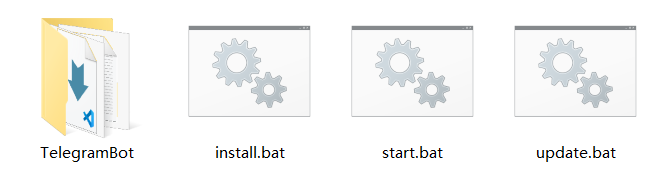
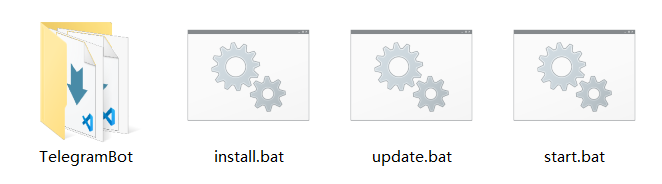
docs: 优化操作步骤并添加示意图
- 重写 README.md 中的脚本操作指南，提升可读性
- 新增 assets/example.png 示意图

diff --git a/README.md b/README.md
@@ -15,15 +15,16 @@
 ## 📑 目录
 
 - [✨ 功能特点](#-功能特点)
+- [⚡ 自动化脚本](#-自动化脚本)
 - [💬 关于 AI 对话](#-关于-ai-对话)
 - [🛠 技术栈](#-技术栈)
 - [🖥 环境准备（`Windows` 用户必读）](#-环境准备windows-用户必读)
 - [🚀 快速开始](#-快速开始)
 - [🔄 更新版本](#-更新版本)
 - [💡 脚本提示信息翻译](#-脚本提示信息翻译)
-    - [install.bat](#installbat)
-    - [update.bat](#updatebat)
-    - [start.bat](#startbat)
+  - [install.bat](#installbat)
+  - [update.bat](#updatebat)
+  - [start.bat](#startbat)
 - [🚨 温馨提示](#-温馨提示)
 - [📄 许可证 (`LICENSE`)](#-许可证-license)
 
@@ -37,20 +38,32 @@
 - **浏览器自动化**: 使用 `Playwright` 实现异步处理。
 - **`TOML` 配置**: 使用 `config.toml` 进行集中式配置管理，类型安全且易读。
 - **配置自动检测**: 每次启动机器人会自动检测是否更新了新配置项并提醒用户在 `config.toml` 中填写。
-- **一键安装与更新**: 提供 `install.bat` 和 `update.bat` 自动化脚本，请在项目的 [Releases 发布页面](../../releases) 下载最新版本。
-  > **重要提示**：
-  > - **首次安装**：请将 `install.bat` 放在一个 **新建的空文件夹** 中双击运行，请确保路径下 **没有** 名为 `TelegramBot` 文件夹，脚本会自动创建 `TelegramBot` 项目文件夹。
-  > - **日常更新**：请将 `update.bat` 放在与 `TelegramBot` 文件夹 **同级的目录** 下双击运行。
-  > - **路径要求**：整个路径中 **请勿包含中文或特殊字符**，以免引发环境报错。
-  > - **环境要求**：请参照 **[ 环境准备（Windows 用户必读）](#-环境准备windows-用户必读)** 安装环境，若旧版本 CMD 出现问题，请尝试在 Windows Terminal 中执行脚本。
-  > - **序号提示**：脚本所有提示信息均已添加序号，方便定位和排查问题。详见下方 **[ 💡 脚本提示信息翻译 ](#-脚本提示信息翻译)** 区域。
-- **一键启动机器人**: 配置完成后，请双击运行 `start.bat` 启动机器人。
-  > **启动脚本说明**：
-  > - **自动环境激活**：脚本会自动检测并激活项目目录下的 `.venv` 虚拟环境，无需手动输入命令。
-  > - **智能路径检查**：启动前会自动校验环境完整性。如果未找到虚拟环境或依赖缺失，窗口会显示红色警告并暂停，防止直接报错闪退。
-  > - **自动使用 `Windows Terminal`**：脚本会自动调用 `Windows Terminal` 打开新标签页启动机器人。
-  > - **停止机器人**：直接在弹出的终端窗口中按 `Ctrl + C` 即可安全停止服务。
-  > - **路径要求**：请将 `start.bat` 放在与 `TelegramBot` 文件夹 **同级的目录** 下双击运行。
+- **版本自动检测**: 每次启动机器人会自动检测是否有新版本。
+
+---
+
+## ⚡ 自动化脚本
+
+提供 `install.bat`、`update.bat` 和 `start.bat` 三个一键式脚本，请在项目的 [Releases 发布页面](../../releases) 下载最新版本。
+
+- **脚本功能说明**
+  - **`install.bat`（一键安装）**：自动克隆代码仓库、创建虚拟环境并安装项目所需的所有依赖。
+  - **`update.bat`（一键更新）**：自动拉取仓库代码并同步依赖。
+  - **`start.bat`（一键启动）**：自动激活虚拟环境，并通过 `Windows Terminal` 安全启动机器人。
+
+  > **注意**：一键更新脚本 **不会** 自动检测是否已是最新版本，请仅在机器人给出有新版本提示时运行。
+
+- **通用注意事项**
+  - **路径要求**：整个路径中 **请勿包含中文或特殊字符**，以免引发环境报错。
+  - **环境要求**：请参照 **[环境准备（Windows 用户必读）](#-环境准备windows-用户必读)** 安装基础环境。若旧版本 `CMD` 出现问题，请尝试在 `Windows Terminal` 中执行脚本。
+  - **停止机器人**：在弹出的终端窗口中按 `Ctrl + C` 即可安全停止服务，也可直接关闭控制台。
+
+- **目录规范**
+  - **首次安装**：请将 `install.bat` 放在一个 **新建的空文件夹** 中双击运行，请确保路径下 **没有** 名为 `TelegramBot` 文件夹，脚本会自动创建 `TelegramBot` 项目文件夹。
+  - **日常更新/启动**：请将 `update.bat` 或 `start.bat` 放在与 `TelegramBot` 文件夹 **同级的目录** 下双击运行。
+
+- **脚本提示信息翻译**
+  - 脚本所有提示信息均已添加序号，方便定位和排查问题。详见下方 **[ 💡 脚本提示信息翻译 ](#-脚本提示信息翻译)** 区域。
 
 ![ 参考图 ](assets/example.png)
 
@@ -61,16 +74,21 @@
 ---
 
 ## 💬 关于 AI 对话
+
 目前仅支持 **私聊** 使用
 
 - **独立会话**：不同用户 **或** 不同群组中的同一用户，会话相互隔离
-  > 群组中需触发关键词或 @机器人（**暂不可用**）
+
+  > **注意**：群组中需触发关键词或 **@** 机器人 **（暂不可用）**
+
 - **消息排队**：原子级别任务锁避免多任务并发出错
 - **状态更新**：自动更新状态信息（排队中、思考中、思考完成内容），**计划** 加入取消排队按钮
 - **自动引用**：状态信息引用原消息，回复内容引用思考过程
 - **思考过程**：仅私聊输出，群组中请使用 `/history` 命令
 - **取消会话**：若思考过程中用户删除原消息，停止处理该任务，消息不计入历史，**计划** 加入取消任务按钮
-  > **注意：** 该功能经测试，目前只在 Nekogram 生效，原版 Telegram 不生效，其他版本未测试
+
+  > **注意**：该功能经测试，**目前** 只在 Nekogram 生效，原版 Telegram **不生效**，其他版本未测试
+
 - **删除判断**：若用户删除机器人发出的状态信息，机器人会在必要时重新发送
 - **超时处理**：配置超时时间和判断间隔，自动清除用户记录
 - **其他功能**：
@@ -104,19 +122,23 @@
 本项目在控制台输出中大量使用了 Emoji 表情。传统的 `CMD` 或旧版 `PowerShell` 可能会导致 Emoji 显示为乱码或空白方块。
 为了获得最佳的运行体验，**强烈建议安装并使用微软官方的 [`Windows Terminal`] + [`Git Bash`]**。
 
-1. **安装 `Windows Terminal`**：请在 Microsoft Store 中搜索 `Windows Terminal` 并安装，或使用 `PowerShell` 安装：
+- **安装 `Windows Terminal`**
+
+  请在 `Microsoft Store` 中搜索 `Windows Terminal` 并安装，或使用 `PowerShell` 安装：
    ```powershell
    winget install --id Microsoft.WindowsTerminal -e
    ```
 
-2. **安装 `Git for Windows`**：前往 [`Git` 官网](https://git-scm.com) 下载并安装，安装时保持默认选项即可。
-   > **重要提示**：如果安装后仍提示没有 `Git` 环境，请尝试重启，如果仍未解决，自行询问 **AI 工具**如何将 `git` 加入 **环境变量**
+- **安装 `Git for Windows`**
 
-3. **设置默认终端**：
-   1. 打开 Windows Terminal（可在开始菜单搜索 **终端**，或按 `Win + R` 输入 `wt` 并回车）。
-   2. 点击标签栏右侧的 **下拉箭头**，选择 **设置**。
-   3. 在左侧选择 **启动**，将“默认配置文件”设置为 **Windows PowerShell**。
-   4. 点击右下角的 **保存**，后续所有命令均在此环境中执行。
+  前往 [`Git` 官网](https://git-scm.com) 下载并安装，安装时保持默认选项即可。
+   > **重要提示**：如果安装后仍提示没有 `Git` 环境，请尝试重启，如果仍未解决，自行询问 **AI 工具** 如何将 `git` 加入 **环境变量**
+
+- **设置默认终端**：
+  - 打开 `Windows Terminal`（可在开始菜单搜索 **终端**，或按 `Win + R` 输入 `wt` 并回车）。
+  - 点击标签栏右侧的 **下拉箭头**，选择 **设置**。
+  - 在左侧选择 **启动**，将“默认配置文件”设置为 `Windows PowerShell`。
+  - 点击右下角的 **保存**，后续所有命令均在此环境中执行。
 
 [⤴ 返回目录](#-目录)
 
@@ -124,58 +146,62 @@
 
 ## 🚀 快速开始
 
-> **极速体验（推荐）**
-> 我们为你准备了自动化脚本！只需双击运行 `install.bat`，即可自动完成以下所有步骤（克隆代码、创建环境、安装依赖、下载浏览器等）。
->
-> **重要提示**：脚本运行完成后，**仍需手动编辑 `config.toml` 填入你的 Token 和 API 配置**，否则机器人无法正常运行！
+- **极速体验（推荐）**
+  - 阅读 **[⚡ 自动化脚本](#-自动化脚本)** 章节说明
+  - 双击运行 `install.bat`，自动完成安装。
+  - 双击运行 `start.bat`，生成 `config.toml` 文件。
+  - 手动编辑 `config.toml` 填入你的 `Token` 和 `API` 配置。
+  - **（可选）** 根据注释按需编辑 `config.toml` 其他配置。
+  - 再次双击运行 `start.bat`，启动机器人，即可开始体验。
 
-<details>
-<summary> 备选方案：手动安装指南（点击展开）</summary>
+- **备选方案**
+  <details>
+  <summary>手动安装指南（点击展开）</summary>
 
-如果你遇到了脚本报错，或者想深入了解项目的配置过程，请参考以下手动步骤：
+  如果你遇到了脚本报错，或者想深入了解项目的配置过程，请参考以下手动步骤：
 
-**1. 克隆项目**
-```powershell
-git clone https://github.com/lym2006/TelegramBot.git
-cd TelegramBot
-```
+  **1. 克隆项目**
+  ```powershell
+  git clone https://github.com/lym2006/TelegramBot.git
+  cd TelegramBot
+  ```
 
-**2. 创建虚拟环境**
-```powershell
-python -m venv .venv
-.venv\Scripts\activate
-```
+  **2. 创建虚拟环境**
+  ```powershell
+  python -m venv .venv
+  .\.venv\Scripts\Activate.ps1
+  ```
 
-**3. 安装依赖**
-本项目使用 `pyproject.toml` 管理依赖，推荐使用以下命令安装：
-```powershell
-python -m pip install --upgrade pip
-python -m pip install -e .
-# 如果你在中国大陆，网络较慢，可以使用国内镜像源：
-# pip install -e . -i https://pypi.tuna.tsinghua.edu.cn/simple
-```
+  **3. 安装依赖**
+  本项目使用 `pyproject.toml` 管理依赖，推荐使用以下命令安装：
+  ```powershell
+  python -m pip install --upgrade pip
+  python -m pip install -e .
+  # 如果你在中国大陆，网络较慢，可以使用国内镜像源：
+  # pip install -e . -i https://pypi.tuna.tsinghua.edu.cn/simple
+  ```
 
-**4. 配置项目**
-编辑 `config.toml` 文件，根据注释填入你的配置：
-- **Token、机器人名称**：在 [`BotFather`](https://t.me/BotFather) 对话获取、设置。
-- **API、模型名称**：在 [硅基流动模型广场](https://cloud.siliconflow.cn/me/models) 获取。
+  **4. 配置项目**
+  编辑 `config.toml` 文件，根据注释填入你的配置：
+  - **`Token`、机器人名称**：在 [`BotFather`](https://t.me/BotFather) 对话获取、设置。
+  - **`API`、模型名称**：在 [硅基流动模型广场](https://cloud.siliconflow.cn/me/models) 获取。
 
-**5. 准备 Chrome 环境**
-本项目使用 `Playwright` 实现浏览器自动化操作，可自动下载依赖文件。
-```powershell
-# 1. 如果在国内网络环境下，建议先配置镜像源
-$env:PLAYWRIGHT_DOWNLOAD_HOST="https://npmmirror.com/mirrors/playwright"
+  **5. 准备 Chrome 环境**
+  本项目使用 `Playwright` 实现浏览器自动化操作，可自动下载依赖文件。
+  ```powershell
+  # 1. 如果在国内网络环境下，建议先配置镜像源
+  $env:PLAYWRIGHT_DOWNLOAD_HOST="https://npmmirror.com/mirrors/playwright"
 
-# 2. 安装 Chromium
-python -m playwright install chromium
-```
+  # 2. 安装 Chromium
+  python -m playwright install chromium
+  ```
 
-**6. 运行机器人**
-```powershell
-python -m bot
-```
+  **6. 运行机器人**
+  ```powershell
+  python -m bot
+  ```
 
-</details>
+  </details>
 
 [⤴ 返回目录](#-目录)
 
@@ -204,10 +230,7 @@ python -m bot
 
 ## 💡 脚本提示信息翻译
 
-<details>
-<summary>点击展开查看脚本提示信息中文翻译</summary>
-
-#### install.bat
+### install.bat
 
 | # | English Prompt | 中文翻译 |
 |---|---------------|---------|
@@ -234,7 +257,7 @@ python -m bot
 | [21] | Installation Completed! | 安装完成！ |
 | [22] | [IMPORTANT] Please edit config.toml to fill in your Token and API keys! | [重要] 请编辑 config.toml 填入你的 Token 和 API 配置！ |
 
-#### update.bat
+### update.bat
 
 | # | English Prompt | 中文翻译 |
 |---|---------------|---------|
@@ -249,14 +272,14 @@ python -m bot
 | [09] | Please make sure you installed via install.bat, or manually ran git clone. | 请确保通过 install.bat 安装过，或手动执行过 git clone。 |
 | [10] | Activating virtual environment... | 正在激活虚拟环境... |
 | [11] | [ERROR] Virtual environment not found! Please run install.bat first. | [错误] 未找到虚拟环境！请先运行 install.bat。 |
-| [12] | Pulling latest code from GitHub... | 正在从 GitHub 拉取最新代码... |
-| [13] | [WARNING] Code pull failed! Please check your network connection or if there are conflicts. | [警告] 代码拉取失败！请检查网络连接或是否存在冲突。 |
+| [12] | Pulling latest code from GitHub... | 正在从 Github 拉取最新代码... |
+| [13] | [WARNING] Code pull failed! Please check your network connection or if there are conflicts. | [警告] 代码拉取失败！请检查你的网络连接或是否存在冲突 |
 | [14] | [TIP] If there are conflicts, please resolve them manually and run this script again. | [提示] 如果存在冲突，请手动解决后重新运行本脚本。 |
 | [15] | Syncing project dependencies... | 正在同步项目依赖... |
 | [16] | [WARNING] Since code pull failed, dependencies may be incomplete. Please check manually. | [警告] 由于代码拉取失败，依赖可能不完整，建议手动检查。 |
 | [17] | Update Completed! | 更新完成！ |
 
-#### start.bat
+### start.bat
 
 | # | English Prompt | 中文翻译 |
 |---|---------------|---------|
@@ -264,8 +287,6 @@ python -m bot
 | [02] | Please ensure start.bat and the TelegramBot folder are in the same directory. | 请确保 start.bat 和 TelegramBot 文件夹在同一级目录。 |
 | [03] | [INFO] Windows Terminal detected. Launching gracefully... | [信息] 检测到 Windows Terminal，正在优雅启动... |
 | [04] | [INFO] Windows Terminal not found. Falling back to CMD compatibility mode... | [信息] 未检测到 Windows Terminal，正在降级为 CMD 兼容模式启动... |
-
-</details>
 
 [⤴返回目录](#-目录)
 
